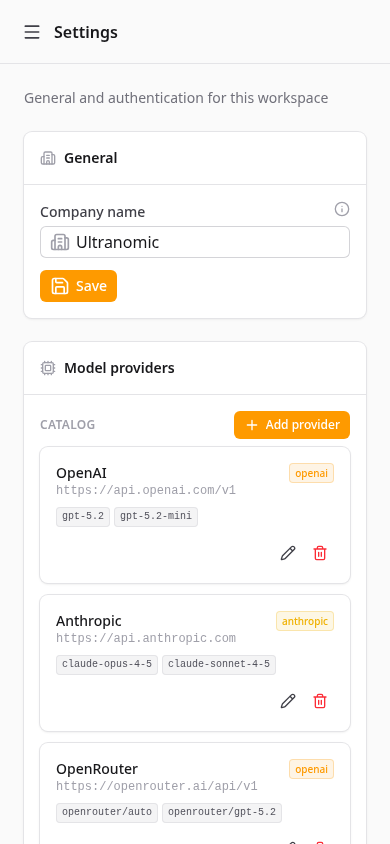
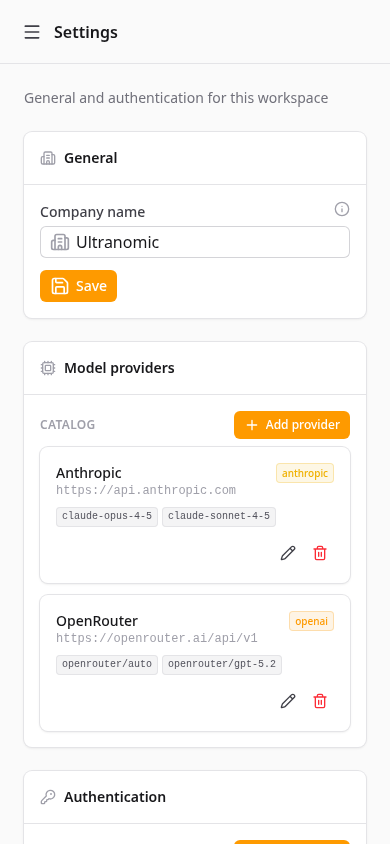
feat(providers): sync models using a vault secret (keySecretId)
fetchModels accepts keySecretId: decrypts server-side for the single
request, audits `use`, never persists on the provider. Editor sync row
gets a vault picker above the paste-key fallback; pasted key wins.

diff --git a/app/pages/settings.vue b/app/pages/settings.vue
@@ -61,7 +61,13 @@ async function saveMProv() {
 }
 
 const provSyncKey = ref('')
+const provSyncSecretId = ref('__none__')
 const provSyncing = ref(false)
+const vaultLive = useQuery(($orpc as any).vault.live.liveOptions())
+const vaultItems = computed(() => [
+  { label: 'No key', value: '__none__' },
+  ...((unref(vaultLive.data) ?? []) as Array<{ id: string, name: string, lastFour: string }>).map(sec => ({ label: `${sec.name} (•••• ${sec.lastFour})`, value: sec.id })),
+])
 async function syncModels() {
   provSyncing.value = true
   mProvMessage.value = ''
@@ -69,6 +75,7 @@ async function syncModels() {
     const res = await ($client as any).providers.fetchModels({
       baseUrl: mProvForm.baseUrl,
       apiStyle: mProvForm.apiStyle,
+      ...(provSyncSecretId.value !== '__none__' ? { keySecretId: provSyncSecretId.value } : {}),
       ...(provSyncKey.value.trim() ? { key: provSyncKey.value.trim() } : {}),
       ...(mProvForm.extraHeaders.trim() ? { extraHeaders: Object.fromEntries(mProvForm.extraHeaders.split('\n').map(l => l.split(':').map(p => p.trim())).filter(p => p.length === 2).map(p => [p[0]!, p[1]!])) } : {}),
     })
@@ -399,9 +406,22 @@ async function savePasswordPolicy() {
           </UFormField>
           <UFormField label="Models" name="modelNames">
             <template #hint><FormHint text="One model name per line — the agent's model dropdown" /></template>
-            <div class="mb-2 flex flex-wrap items-end gap-2">
-              <UInput v-model="provSyncKey" type="password" icon="i-lucide-key-round" placeholder="API key for sync (optional, never stored)" class="min-w-48 flex-1" :disabled="provSyncing" />
-              <UButton icon="i-lucide-refresh-cw" size="sm" :loading="provSyncing" :disabled="!mProvForm.baseUrl" @click="syncModels">Sync from endpoint</UButton>
+            <div class="mb-2 space-y-2">
+              <div class="flex flex-wrap items-end gap-2">
+                <div class="min-w-48 flex-1">
+                  <USelect
+                    v-model="provSyncSecretId"
+                    :items="vaultItems"
+                    value-key="value"
+                    icon="i-lucide-vault"
+                    placeholder="Vault secret for sync"
+                    class="w-full"
+                    :disabled="provSyncing"
+                  />
+                </div>
+                <UButton icon="i-lucide-refresh-cw" size="sm" :loading="provSyncing" :disabled="!mProvForm.baseUrl" @click="syncModels">Sync from endpoint</UButton>
+              </div>
+              <UInput v-model="provSyncKey" type="password" icon="i-lucide-key-round" placeholder="…or paste a key (never stored)" class="w-full" :disabled="provSyncing" />
             </div>
             <UTextarea v-model="mProvForm.modelNames" placeholder="model-name&#10;another-model" :rows="4" class="w-full" />
           </UFormField>

diff --git a/tests/model-providers.test.ts b/tests/model-providers.test.ts
@@ -1,5 +1,6 @@
 // model providers: seeds, save/remove, employee linkage validation
 import { beforeEach, describe, expect, it } from 'vitest'
+import { eq } from 'drizzle-orm'
 import './api-harness'
 import { resetSchema } from './helpers/pg'
 import { applyMigrations } from '../server/db/index'
@@ -112,6 +113,45 @@ describe('providers', () => {
       expect(calls).toBe(2)
     }
     finally { globalThis.fetch = origFetch }
+  })
+
+  it('fetchModels uses a vault secret (decrypted server-side, audited use)', async () => {
+    const sec = await callProc('vault.create', { name: 'sync-key', value: 'sk-from-vault' })
+    const origFetch = globalThis.fetch
+    const seenHeaders: Array<Record<string, string>> = []
+    globalThis.fetch = (async (_url: unknown, init?: unknown) => {
+      seenHeaders.push(((init as { headers?: Record<string, string> })?.headers) ?? {})
+      return { ok: true, status: 200, json: async () => ({ data: [{ id: 'vault-model' }], has_more: false }) }
+    }) as typeof fetch
+    try {
+      const r = await callProc('providers.fetchModels', { baseUrl: 'https://fake.example.com/v1', apiStyle: 'openai', keySecretId: sec.id })
+      expect(r.models).toEqual(['vault-model'])
+      expect(seenHeaders[0]!.Authorization).toBe('Bearer sk-from-vault')
+      // audit trail recorded the use
+      const { db } = await dbm()
+      const { vaultAudit } = await import('../server/db/schema')
+      const audits = await db.select().from(vaultAudit).where(eq(vaultAudit.secretId, sec.id))
+      expect(audits.some(a => a.action === 'use')).toBe(true)
+    }
+    finally { globalThis.fetch = origFetch }
+  })
+
+  it('fetchModels pasted key wins over vault secret', async () => {
+    const sec = await callProc('vault.create', { name: 'lose-key', value: 'sk-from-vault' })
+    const origFetch = globalThis.fetch
+    globalThis.fetch = (async (_url: unknown, init?: unknown) => {
+      const h = ((init as { headers?: Record<string, string> })?.headers) ?? {}
+      expect(h.Authorization).toBe('Bearer sk-pasted')
+      return { ok: true, status: 200, json: async () => ({ data: [{ id: 'x' }], has_more: false }) }
+    }) as typeof fetch
+    try {
+      await callProc('providers.fetchModels', { baseUrl: 'https://fake.example.com/v1', apiStyle: 'openai', key: 'sk-pasted', keySecretId: sec.id })
+    }
+    finally { globalThis.fetch = origFetch }
+  })
+
+  it('fetchModels unknown vault secret rejected', async () => {
+    await expect(callProc('providers.fetchModels', { baseUrl: 'https://fake.example.com/v1', apiStyle: 'openai', keySecretId: 'ghost-sec' })).rejects.toMatchObject({ code: 'BAD_REQUEST' })
   })
 
   it('fetchModels tolerates a malformed body (no data array)', async () => {

diff --git a/server/utils/orpc.ts b/server/utils/orpc.ts
@@ -237,20 +237,37 @@ export const router = os.router({
         baseUrl: z.string().url(),
         apiStyle: z.enum(['openai', 'anthropic']),
         key: z.string().min(1).max(400).optional(),
+        /** vault secret holding the API key — decrypted server-side for this
+         *  one request only, audited as `use`, never stored on the provider */
+        keySecretId: z.string().min(1).optional(),
         extraHeaders: z.record(z.string().min(1), z.string().max(500)).optional(),
       }))
-      .handler(async ({ input }): Promise<{ models: string[] }> => {
+      .handler(async ({ input, context }): Promise<{ models: string[] }> => {
+        let key = input.key
+        if (!key && input.keySecretId) {
+          const rows = await db.select().from(vaultSecretsTable).where(eq(vaultSecretsTable.id, input.keySecretId))
+          const secret = rows[0]
+          if (!secret) throw new ORPCError('BAD_REQUEST', { message: 'api key secret not found' })
+          key = decryptSecret(secret.ciphertext)
+          await db.insert(vaultAuditTable).values({
+            id: crypto.randomUUID(),
+            secretId: secret.id,
+            secretName: secret.name,
+            action: 'use',
+            actorId: context.session.user.id,
+          })
+        }
         const url = input.apiStyle === 'anthropic'
           ? `${input.baseUrl.replace(/\/$/, '')}/v1/models`
           : `${input.baseUrl.replace(/\/$/, '')}/models`
         const headers: Record<string, string> = { ...input.extraHeaders }
-        if (input.key) {
+        if (key) {
           if (input.apiStyle === 'anthropic') {
-            headers['x-api-key'] = input.key
+            headers['x-api-key'] = key
             headers['anthropic-version'] = headers['anthropic-version'] ?? '2023-06-01'
           }
           else {
-            headers.Authorization = `Bearer ${input.key}`
+            headers.Authorization = `Bearer ${key}`
           }
         }
         // fetch pages (Anthropic paginates with has_more + last_id; OpenAI-style returns one page)
